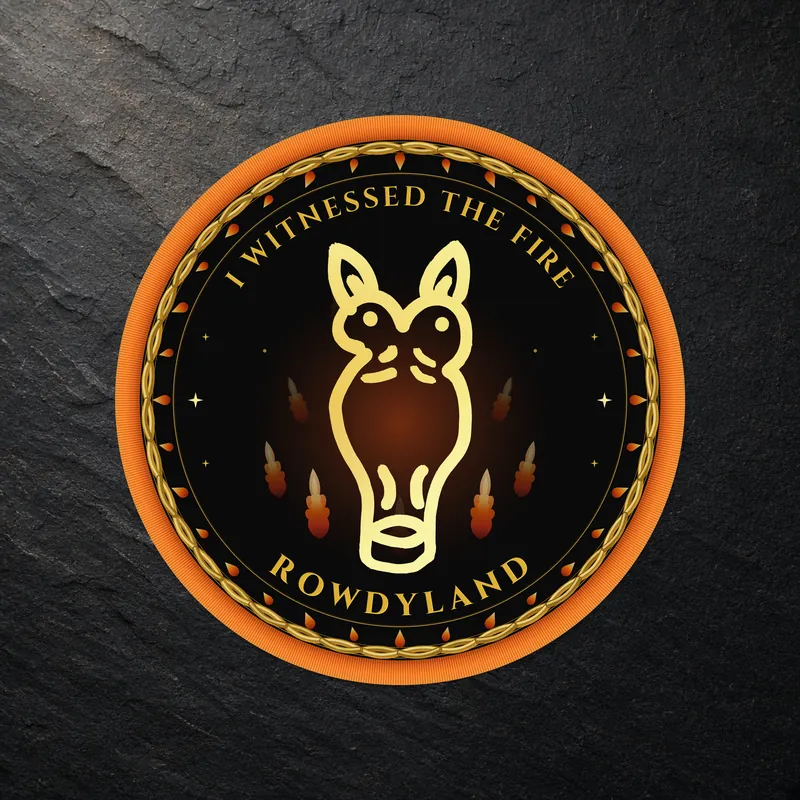
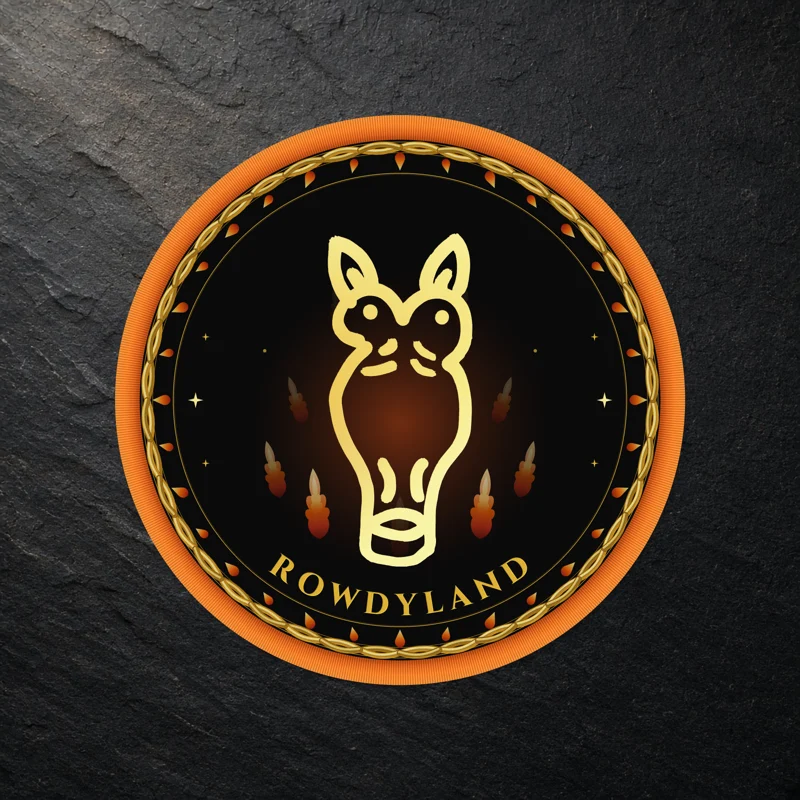
preview: new patch

Changed region(s): [[0.375, 0.2188, 0.625, 0.7188], [0.625, 0.2812, 0.7188, 0.375], [0.2812, 0.2812, 0.375, 0.375]]

diff --git a/preview/fire-horse-ceremony/index.html b/preview/fire-horse-ceremony/index.html
@@ -48,7 +48,7 @@
       <section class="merch" aria-labelledby="merch-title">
         <h2 id="merch-title">Ceremony Merch</h2>
         <div class="merch-row">
-          <!-- patch hidden until the image is regenerated without the old phrase -->
+          <figure><img src="art/patch.webp?v=2" width="800" height="800" alt="Round Rowdyland patch with the gold horse"><figcaption>The Patch</figcaption></figure>
           <figure><img src="art/tee.webp?v=1" width="750" height="1000" alt="Black tee with the gold horse, Rowdyland, Fire Horse Ceremony"><figcaption>The Tee</figcaption></figure>
         </div>
         <p class="soon">Coming soon</p>
